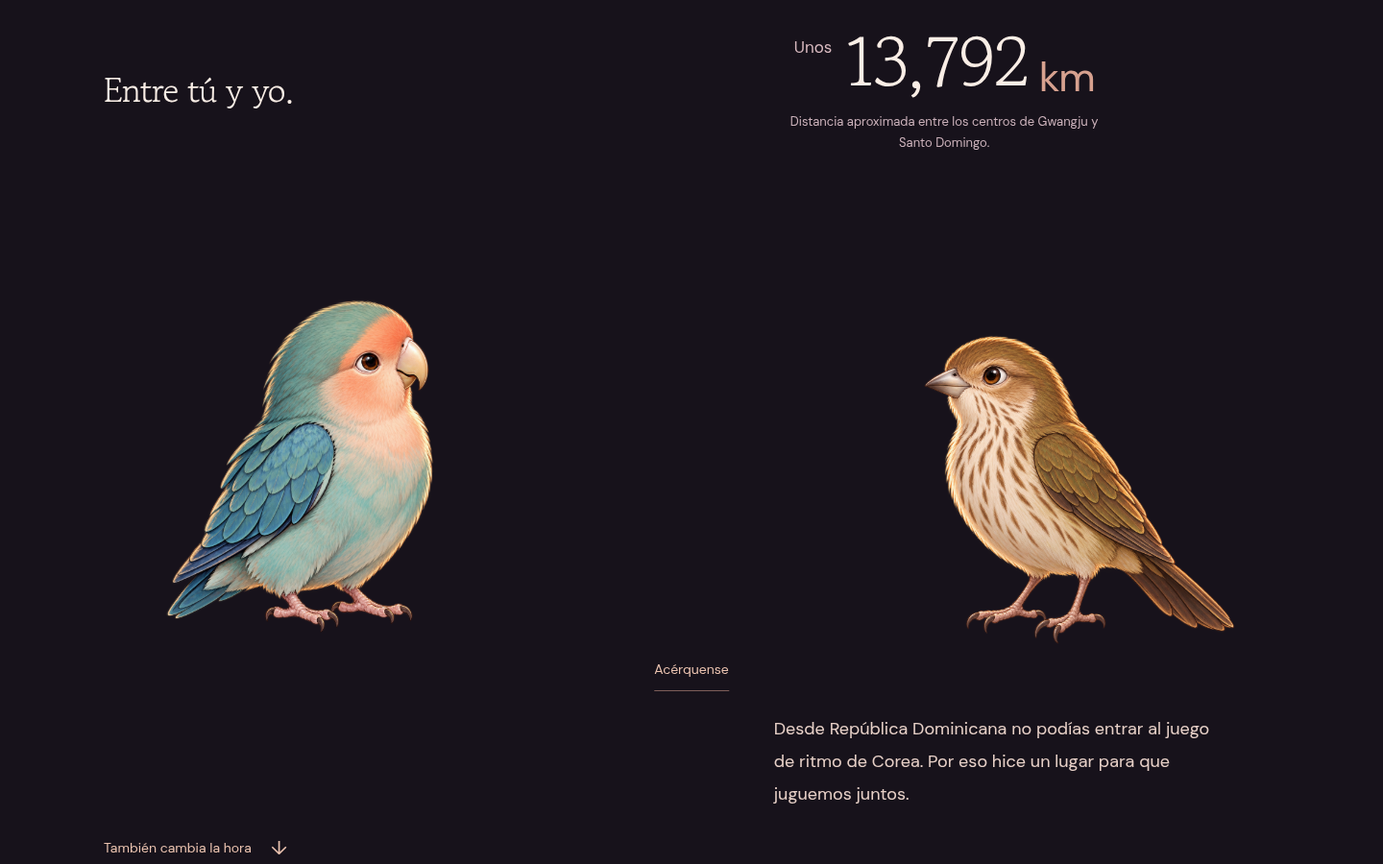
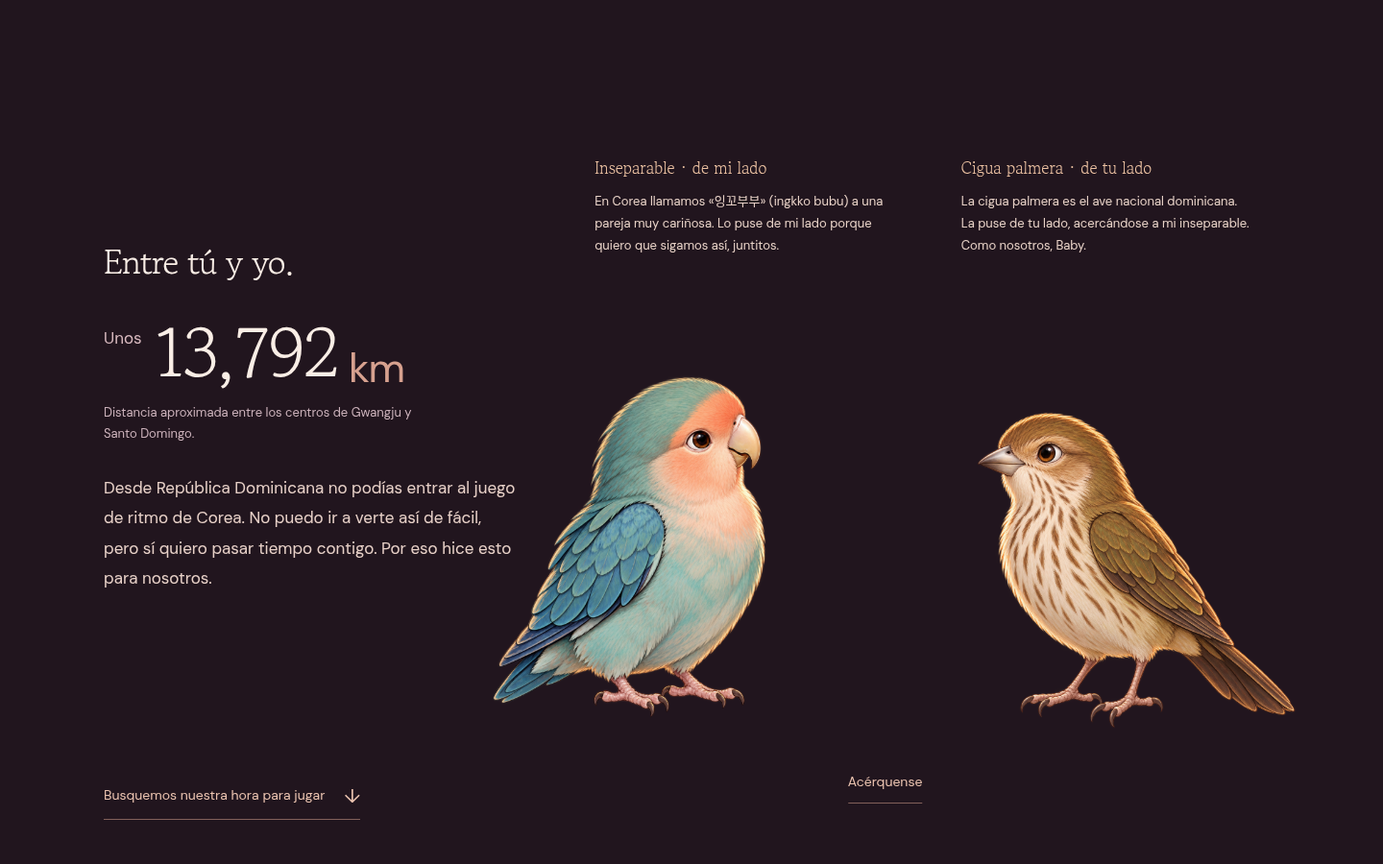
Trim unused code, split landing route, and enrich personal bilingual copy

diff --git a/src/copy/home.ts b/src/copy/home.ts
@@ -2,11 +2,11 @@ export const landingCopy = {
   ko: {
     heroKicker: 'Para ti, Mami ♡',
     heroTitle: ['Baby,', '이거 내가 만들었어!'],
-    heroBody: 'Baby, 너랑 통화할 때 같이 놀 수 있는 걸 만들고 싶었어.\n네가 좋아하는 도미노도 넣었고, 다른 게임들도 몇 개 준비해 봤어.\n어때, 나랑 한 판 할래? ㅋㅋㅋ',
+    heroBody: 'Baby, 떨어져 있어도 너랑 같이 놀고 싶어서 만들었어. 네가 좋아하는 도미노도 넣었지. 하나 골라봐. 오늘은 누가 이길까? ㅋㅋㅋ',
     primaryAction: '같이 놀자 ♡',
     secondaryAction: 'Papi의 편지',
     gamesTitle: 'Mami, 뭐부터 해볼래?',
-    gamesIntro: ['도미노는 네가 더 잘할 것 같은데, 다른 게임은 내가 이길 수도 있지 ㅋㅋㅋ', '하나 골라봐, baby.'],
+    gamesIntro: ['도미노는 네가 더 잘할 것 같은데, 다른 게임은 내가 이길 수도 있지 ㅋㅋㅋ', '이겨도 너무 놀리지는 마, Baby.'],
     navHome: '홈',
     navGames: '게임',
     navLetter: 'Papi의 편지',
@@ -21,7 +21,7 @@ export const landingCopy = {
     momentsTitle: 'Mami, 이렇게 하면 돼 ♡',
     moments: [
       { title: '같이 게임하기', body: '초대 링크로 같은 게임방에 들어와서 우리 둘이 같이 놀 수 있어.' },
-      { title: 'Baby, 내 그림 맞혀봐.', body: '다음엔 내가 맞힐게 ㅋㅋㅋ 캐치마인드에서는 한국어나 스페인어로 얘기하고, 번역과 원문을 함께 볼 수 있어.' },
+      { title: 'Baby, 이게 뭔지 맞혀봐.', body: '그림이 좀 이상해도 봐줘 ㅋㅋㅋ 캐치마인드 안에서는 한국어·스페인어 채팅의 원문과 번역을 같이 볼 수 있어.' },
       { title: '하고 싶은 게 더 있다면?', body: '다른 게임이나 추가했으면 하는 게 있으면 알려줘. Papi가 한번 만들어볼게 ㅋㅋㅋ' },
     ],
     translationLimitNote: '번역 한도를 넘거나 번역이 어려울 때는 원문으로 보여줄게.',
@@ -29,11 +29,11 @@ export const landingCopy = {
     letterAddress: 'For my Mami ♡',
     letterTitle: 'Baby, surprise!',
     letterBody: [
-      '이거 만들면서 네가 보고 어떤 반응을 할까 계속 생각했어.',
-      '네가 가족들이랑 자주 하는 도미노도 같이 해보고 싶었고, 다른 게임도 우리 둘이 하면 재밌을 것 같았어.',
-      '직접 옆에 있으면 더 좋겠지만, 떨어져 있는 동안에도 이렇게 같이 놀 수 있으면 좋겠어.',
-      '아직 부족한 게 있으면 같이 하면서 고쳐갈게.',
-      '사랑해, mami.',
+      'Baby, 이거 열어보고 어떤 표정을 지을까 생각하면서 만들었어. 그냥 게임만 할 수 있는 곳 말고, 들어오면 내가 너 생각하면서 만들었다는 게 느껴졌으면 좋겠어.',
+      '네가 가족들이랑 하는 도미노도 나랑 같이 해보고 싶었어. 네가 이기고 메롱하면 조금 억울하겠지만, 그래도 네가 신나하는 얼굴은 보고 싶거든. 대신 내가 이기면 박수 쳐줘야 해 ㅋㅋㅋ',
+      '나는 광주에 있고 너는 산토도밍고에 있잖아. 13시간이나 차이 나고 바로 옆에 갈 수도 없어서 많이 보고 싶어. 이렇게라도 너랑 얘기하고 같이 웃을 시간이 조금 더 생겼으면 좋겠어.',
+      '나중에는 화면 말고 바로 옆에서 같이 놀고 싶어. 게임하다가 네 얼굴도 보고, 손도 잡고. 그때까지는 여기서 한 판씩 하자, Baby. 하고 싶은 게 있으면 말해줘. 같이 해보고 싶어.',
+      '이 페이지 보고 네가 한 번 웃어주면 좋겠다. 그리고 내가 너 많이 좋아하고, 많이 사랑한다는 것도 알아줬으면 좋겠어. 오래오래 내 편 해줘, Mami. 나도 네 편일게. 사랑해 ♡',
     ],
     letterSignature: '— Your Papi, Yeonseok ♡',
     foldLetter: '편지 접기',
@@ -43,11 +43,11 @@ export const landingCopy = {
   es: {
     heroKicker: 'Para ti, Mami ♡',
     heroTitle: ['Baby,', '¡lo hice para ti!'],
-    heroBody: 'Baby, quería hacer algo para que pudiéramos jugar mientras hablamos por teléfono.\nIncluí el dominó, que tanto te gusta, y preparé algunos juegos más.\n¿Qué te parece? ¿Jugamos una partida? haha.',
+    heroBody: 'Baby, hice esto para jugar contigo aunque estemos lejos. Puse el dominó que te gusta y unos juegos más. Escoge uno. ¿Quién gana hoy? haha.',
     primaryAction: 'Vamos a jugar ♡',
     secondaryAction: 'La carta de Papi',
     gamesTitle: 'Mami, ¿por cuál empezamos?',
-    gamesIntro: ['En dominó seguro me ganas tú, pero quizá yo gane en los otros juegos, haha.', 'Escoge uno, baby.'],
+    gamesIntro: ['En dominó seguro me ganas tú, pero quizá yo gane en los otros juegos, haha.', 'Si me ganas, no te burles tanto de mí, Baby.'],
     navHome: 'Inicio',
     navGames: 'Juegos',
     navLetter: 'La carta de Papi',
@@ -62,7 +62,7 @@ export const landingCopy = {
     momentsTitle: 'Mami, mira cómo jugamos ♡',
     moments: [
       { title: 'Juguemos juntos', body: 'Entramos a la misma sala con el enlace de invitación y jugamos juntos.' },
-      { title: 'Baby, adivina qué dibujé.', body: 'Después me toca adivinar a mí, haha. En Catchmind podemos escribir en coreano o español y ver la traducción junto al mensaje original.' },
+      { title: 'Baby, adivina qué es esto.', body: 'No te rías mucho de mi dibujo, haha. Dentro de Catchmind, el chat muestra el mensaje original y su traducción entre coreano y español.' },
       { title: '¿Se te ocurre algo más?', body: 'Si quieres otro juego o te gustaría que agregara algo, dímelo. Papi tratará de hacerlo, haha.' },
     ],
     translationLimitNote: 'Si se llega al límite o la traducción no está disponible, verás el mensaje original.',
@@ -70,11 +70,11 @@ export const landingCopy = {
     letterAddress: 'For my Mami ♡',
     letterTitle: 'Baby, surprise!',
     letterBody: [
-      'Mientras hacía esto, no dejaba de pensar en qué cara pondrías al verlo.',
-      'Quería jugar contigo al dominó, que juegas tanto con tu familia, y pensé que los otros juegos también serían divertidos para nosotros dos.',
-      'Me encantaría estar a tu lado, pero ojalá podamos divertirnos así mientras estamos lejos.',
-      'Si algo todavía necesita mejorar, lo iremos arreglando mientras jugamos.',
-      'Te amo, mami.',
+      'Baby, hice esto pensando en la cara que pondrías al abrirlo. Quería que fuera más que un lugar para jugar. Quería que al entrar sintieras que lo hice pensando en ti.',
+      'También quería jugar contigo al dominó, como juegas con tu familia. Si me ganas y me sacas la lengua, seguro me voy a quejar un poquito, pero quiero verte así de contenta. Eso sí, si gano yo, me tienes que aplaudir, haha.',
+      'Yo estoy en Gwangju y tú en Santo Domingo. Tenemos trece horas de diferencia y no puedo ir a verte así de fácil. Te extraño mucho. Ojalá esto nos dé un ratito más para hablar, jugar y reírnos juntos.',
+      'Más adelante quiero jugar contigo teniéndote al lado, sin una pantalla de por medio. Poder mirarte y agarrarte la mano. Mientras tanto, juguemos aquí, Baby. Si hay algo que quieras hacer conmigo, dímelo. Yo también quiero hacerlo contigo.',
+      'Si esta página te saca una sonrisa, yo ya estoy feliz. Quiero que sepas lo mucho que te amo. Quédate de mi lado por mucho tiempo, Mami. Yo también quiero estar del tuyo. Te amo ♡',
     ],
     letterSignature: '— Your Papi, Yeonseok ♡',
     foldLetter: 'Doblar la carta',

diff --git a/post-hero-preview/src/CountryCompanions.tsx b/post-hero-preview/src/CountryCompanions.tsx
@@ -13,12 +13,12 @@ export function companionBodyMotion(phase:CompanionPhase,together:boolean,shift:
  const transition=reduced||phase==='instant'?{duration:0}:phase==='return'?{duration:.22,ease:[.23,1,.32,1] as const}:{duration:1.15,ease:[.77,0,.175,1] as const,times:[0,.25,.5,.8,1]};
  return{transform,transition};
 }
-function Companion({side,together,phase,shift,reduced,interactive,language,onGreet,onError}:{side:1|-1;together:boolean;phase:CompanionPhase;shift:number;reduced:boolean;interactive:boolean;language:'ko'|'es';onGreet:(pointer:boolean)=>void;onError:()=>void}){
+function Companion({side,together,phase,shift,reduced,interactive,language,descriptionId,onGreet,onError}:{side:1|-1;together:boolean;phase:CompanionPhase;shift:number;reduced:boolean;interactive:boolean;language:'ko'|'es';descriptionId:string;onGreet:(pointer:boolean)=>void;onError:()=>void}){
  const ko=language==='ko',id=useId(),x=useSpring(useMotionValue(0),spring),rotation=useSpring(useMotionValue(0),spring),animated=phase==='greet';
  const transform=useMotionTemplate`translateX(${x}px) rotate(${rotation}deg)`,body=companionBodyMotion(phase,together,shift,side,reduced);
  useEffect(()=>{if(reduced||!interactive){x.jump(0);rotation.jump(0);}},[reduced,interactive,x,rotation]);
  return <div className={`bird-scroll lovebird-${side===1?'left':'right'}`} inert={!interactive}>
-  <motion.button type="button" className="lovebird" aria-label={ko?(side===1?'광주의 잉꼬에게 인사하기':'산토도밍고의 시구아팔메라에게 인사하기'):(side===1?'Saludar al inseparable de Gwangju':'Saludar a la cigua palmera de Santo Domingo')} aria-pressed={together} aria-hidden={!interactive} tabIndex={interactive?0:-1} initial={false} animate={{transform:body.transform}} transition={body.transition} onClick={event=>onGreet(event.detail>0)} onPointerMove={event=>{if(reduced||event.pointerType!=='mouse'||!matchMedia('(hover: hover) and (pointer: fine)').matches)return;const bounds=event.currentTarget.getBoundingClientRect(),ratio=(event.clientX-bounds.left)/bounds.width-.5;x.set(ratio*8);rotation.set(ratio*4);}} onPointerLeave={()=>{x.set(0);rotation.set(0);}}>
+  <motion.button type="button" className="lovebird" aria-describedby={interactive?descriptionId:undefined} aria-label={ko?(side===1?'광주의 잉꼬에게 인사하기':'산토도밍고의 시구아팔메라에게 인사하기'):(side===1?'Saludar al inseparable de Gwangju':'Saludar a la cigua palmera de Santo Domingo')} aria-pressed={together} aria-hidden={!interactive} tabIndex={interactive?0:-1} initial={false} animate={{transform:body.transform}} transition={body.transition} onClick={event=>onGreet(event.detail>0)} onPointerMove={event=>{if(reduced||event.pointerType!=='mouse'||!matchMedia('(hover: hover) and (pointer: fine)').matches)return;const bounds=event.currentTarget.getBoundingClientRect(),ratio=(event.clientX-bounds.left)/bounds.width-.5;x.set(ratio*8);rotation.set(ratio*4);}} onPointerLeave={()=>{x.set(0);rotation.set(0);}}>
    <motion.svg className="lovebird-art" style={{transform}} viewBox="0 0 1254 1254" aria-hidden="true">
     <defs><clipPath id={`${id}-wing`}><path d={side===1?'M584 501C527 468 445 475 409 519C348 597 324 695 257 779C210 838 160 923 142 988C278 955 402 856 489 769C577 685 635 595 636 546C636 523 614 507 584 501Z':'M567 435C640 422 710 458 748 510C801 579 847 674 924 755C969 806 1016 868 1042 938C919 906 824 846 735 780C650 714 575 626 552 552C535 496 537 455 567 435Z'}/></clipPath></defs>
     <image href={side===1?'/images/story-companions/lovebird.png':'/images/story-companions/palmchat.png'} width="1254" height="1254" onError={onError}/>
@@ -31,7 +31,7 @@ function Companion({side,together,phase,shift,reduced,interactive,language,onGre
 }
 
 export function CountryCompanions({language}:{language:'ko'|'es'}){
- const ko=language==='ko',root=useRef<HTMLDivElement>(null),reduced=useReducedMotion();
+ const ko=language==='ko',root=useRef<HTMLDivElement>(null),reduced=useReducedMotion(),lovebirdNote=useId(),palmchatNote=useId();
  const [together,setTogether]=useState(false),[visible,setVisible]=useState(false),[phase,setPhase]=useState<CompanionPhase>('instant'),[shift,setShift]=useState(0),[failed,setFailed]=useState(false),[trace,setTrace]=useState({x:0,y:0}),[moment,setMoment]=useState<'distance'|'time'|'shared'>('distance');
  useEffect(()=>{
   const element=root.current;if(!element)return;
@@ -75,11 +75,15 @@ export function CountryCompanions({language}:{language:'ko'|'es'}){
  };
  return <div ref={root} className="country-companions" data-together={together} data-visible={visible} data-interaction-phase={phase} data-story-moment={moment} role="group" aria-labelledby="story-distance-title">
   <div className="companion-stage">
-  <Companion side={1} together={together} phase={phase} shift={shift} reduced={Boolean(reduced)||!visible} interactive={moment==='distance'} language={language} onGreet={greet} onError={()=>setFailed(true)}/>
+  <Companion side={1} together={together} phase={phase} shift={shift} reduced={Boolean(reduced)||!visible} interactive={moment==='distance'} language={language} descriptionId={lovebirdNote} onGreet={greet} onError={()=>setFailed(true)}/>
   <svg className="companion-heart" aria-hidden="true"><g transform={`translate(${trace.x} ${trace.y-118})`}>
    {[-1,1].map(side=><motion.path key={side} d={`M0 12C${side*24} -25 ${side*80} -22 ${side*80} 18C${side*80} 62 ${side*30} 92 0 118`} initial={false} animate={{pathLength:together?1:0,opacity:together?.5:0}} transition={{duration:phase==='greet'&&!reduced?.75:phase==='return'&&!reduced?.22:0,delay:together&&phase==='greet'&&!reduced?.4:0,ease:[.23,1,.32,1]}}/>)}</g></svg>
-  <Companion side={-1} together={together} phase={phase} shift={shift} reduced={Boolean(reduced)||!visible} interactive={moment==='distance'} language={language} onGreet={greet} onError={()=>setFailed(true)}/>
+  <Companion side={-1} together={together} phase={phase} shift={shift} reduced={Boolean(reduced)||!visible} interactive={moment==='distance'} language={language} descriptionId={palmchatNote} onGreet={greet} onError={()=>setFailed(true)}/>
   <button type="button" className="lovebird-greeting text-button" hidden={moment!=='distance'} aria-pressed={together} onClick={event=>greet(event.detail>0)}>{together?(ko?'조금 떨어져 볼까':'Un poquito de espacio'):(ko?'가까이 와':'Acérquense')}</button>
+  </div>
+  <div className="companion-meanings" hidden={moment!=='distance'}>
+   <div id={lovebirdNote}><h3>{ko?'잉꼬 · 내 쪽에서':'Inseparable · de mi lado'}</h3><p>{ko?'한국에서는 다정한 부부를 ‘잉꼬부부’라고 불러. 나도 너랑 오래 그렇게 지내고 싶어서 내 쪽에 뒀어.':'En Corea llamamos «잉꼬부부» (ingkko bubu) a una pareja muy cariñosa. Lo puse de mi lado porque quiero que sigamos así, juntitos.'}</p></div>
+   <div id={palmchatNote}><h3>{ko?'시구아팔메라 · 네 쪽에서':'Cigua palmera · de tu lado'}</h3><p>{ko?'시구아팔메라는 도미니카의 국조야. 네 나라의 새와 내 쪽의 잉꼬가 서로 다가오게 했어. 우리처럼, Baby.':'La cigua palmera es el ave nacional dominicana. La puse de tu lado, acercándose a mi inseparable. Como nosotros, Baby.'}</p></div>
   </div>
   {failed&&<p className="lovebird-error" role="status">{ko?'새 그림을 불러오지 못했어. 페이지를 다시 열어줘.':'No se cargaron las aves. Vuelve a abrir la página.'}</p>}
  </div>;

diff --git a/src/landing/gallery/studioObjects.ts b/src/landing/gallery/studioObjects.ts
@@ -32,16 +32,8 @@ function mesh(g:T.Group,geometry:T.BufferGeometry,material:T.Material,x=0,y=0,z=
 function box(g:T.Group,m:T.Material,w:number,h:number,d:number,x=0,y=0,z=0,r=.075){return mesh(g,new RoundedBoxGeometry(w,h,d,6,Math.min(r,d/3)),m,x,y,z);}
 function line(g:T.Group,m:T.Material,points:number[][],radius=.025){return mesh(g,new T.TubeGeometry(new T.CatmullRomCurve3(points.map(p=>new T.Vector3(...p as [number,number,number]))),48,radius,12,false),m);}
 function disc(g:T.Group,m:T.Material,r:number,x:number,y:number,z:number){const o=mesh(g,new T.CylinderGeometry(r,r,.018,32),m,x,y,z);o.rotation.x=Math.PI/2;return o;}
-function print(g:T.Group,text:string,color:string,x=0,y=0,z=.16,w=.65,h=.9){const c=document.createElement('canvas');c.width=256;c.height=320;const ctx=c.getContext('2d')!;ctx.fillStyle=color;ctx.font='700 220px GiftSans, sans-serif';ctx.textAlign='center';ctx.textBaseline='middle';ctx.fillText(text,128,170);const map=new T.CanvasTexture(c);map.colorSpace=T.SRGBColorSpace;mesh(g,new T.PlaneGeometry(w,h),new T.MeshStandardMaterial({map,transparent:true,roughness:.75,depthWrite:false}),x,y,z);}
 function pips(g:T.Group,m:T.Material,n:number,y:number,z=.22,spread=.2){const p=n===1?[[0,0]]:n===2?[[-1,-1],[1,1]]:n===3?[[-1,-1],[0,0],[1,1]]:n===4?[[-1,-1],[1,-1],[-1,1],[1,1]]:[[-1,-1],[1,-1],[0,0],[-1,1],[1,1]];p.forEach(([x,dy])=>disc(g,m,.062,x*spread,y+dy*spread,z));}
-function cutGem(g:T.Group,source:T.MeshPhysicalMaterial,size:number,x=0,y=0,z=0){
- const rings=[[.35,.53],[.7,.38],[1,.08],[.99,-.06],[.47,-.5],[.015,-.77]],points:number[]=[];
- const v=(r:number,i:number)=>{const [radius,depth]=rings[r],angle=i/8*Math.PI*2+(r===1||r===4?Math.PI/8:0);return[Math.cos(angle)*radius,Math.sin(angle)*radius,depth];};
- for(let i=0;i<8;i++){points.push(0,0,.53,...v(0,i),...v(0,i+1));for(let r=0;r<5;r++){const a=v(r,i),b=v(r,i+1),c=v(r+1,i),d=v(r+1,i+1);points.push(...a,...c,...b,...b,...c,...d);}}
- const geometry=new T.BufferGeometry();geometry.setAttribute('position',new T.Float32BufferAttribute(points,3));geometry.computeVertexNormals();
- const m=source.clone();m.metalness=.06;m.roughness=.22;m.envMapIntensity=.7;m.ior=1.72;m.clearcoat=.9;
- const o=mesh(g,geometry,m,x,y,z);o.scale.setScalar(size);o.rotation.set(.24,-.38,.16);return o;
-}
+
 function sculptCamel(g:T.Group,m:Materials){
  // One continuous carved silhouette replaces the disconnected torso, hump and tube neck.
  const s=new T.Shape();s.moveTo(1.2,.91);s.bezierCurveTo(1.32,.96,1.34,1.07,1.2,1.11);s.lineTo(.94,1.13);s.lineTo(.83,1.28);s.quadraticCurveTo(.73,1.3,.77,1.09);s.bezierCurveTo(.61,1.07,.57,.83,.51,.48);s.bezierCurveTo(.45,.22,.28,.24,.18,.49);s.bezierCurveTo(.03,.97,-.35,.92,-.5,.52);s.bezierCurveTo(-.62,.24,-.85,.43,-.98,.2);s.quadraticCurveTo(-1.12,.12,-1.13,-.14);s.quadraticCurveTo(-1.2,-.32,-1.14,-.47);s.lineTo(-1.08,-.48);s.quadraticCurveTo(-1.07,-.29,-1.01,-.22);s.lineTo(-.81,-.56);s.lineTo(-.93,-1.01);s.quadraticCurveTo(-.97,-1.1,-.82,-1.1);s.lineTo(-.6,-1.1);s.quadraticCurveTo(-.56,-1.03,-.68,-1);s.lineTo(-.58,-.56);s.lineTo(-.42,-.22);s.bezierCurveTo(-.2,-.3,.2,-.28,.45,-.2);s.lineTo(.55,-.98);s.quadraticCurveTo(.5,-1.09,.66,-1.1);s.lineTo(.87,-1.1);s.quadraticCurveTo(.93,-1.04,.79,-.99);s.lineTo(.75,-.3);s.bezierCurveTo(.8,.04,.71,.23,.72,.41);s.bezierCurveTo(.76,.7,.89,.91,1.02,.89);s.lineTo(1.2,.91);

diff --git a/post-hero-preview/src/StoryChapters.tsx b/post-hero-preview/src/StoryChapters.tsx
@@ -15,11 +15,11 @@ export function StoryChapters({language}:{language:'ko'|'es'}){
   <CountryCompanions language={language}/>
   <section id="distance" className="story-chapter story-distance" data-pose="0" aria-labelledby="story-distance-title">
    <div className="story-distance-copy"><h2 id="story-distance-title">{ko?'우리 사이, 이만큼.':'Entre tú y yo.'}</h2><div className="story-distance-facts"><p className="story-distance-number"><span>{ko?'약':'Unos'}</span>{distance}<small>km</small></p><p className="story-reference">{ko?'광주에서 산토도밍고까지, 도시 중심을 잇는 직선거리야.':'Distancia aproximada entre los centros de Gwangju y Santo Domingo.'}</p></div>
-   <p className="story-distance-reason">{ko?'도미니카에서는 한국 리듬게임에 접속이 안 됐잖아. 그래서 우리 둘이 같이 놀 곳을 만들었어.':'Desde República Dominicana no podías entrar al juego de ritmo de Corea. Por eso hice un lugar para que juguemos juntos.'}</p></div>
+   <p className="story-distance-reason">{ko?'한국 리듬게임에 접속이 안 됐잖아. 바로 옆에 갈 수는 없어도 너랑 같이 놀고 싶어서 우리 둘이 놀 곳을 만들었어.':'Desde República Dominicana no podías entrar al juego de ritmo de Corea. No puedo ir a verte así de fácil, pero sí quiero pasar tiempo contigo. Por eso hice esto para nosotros.'}</p></div>
    <a className="text-button story-next" href="#time-difference">{ko?'같이 놀 시간도 골라볼까?':'Busquemos nuestra hora para jugar'}<span aria-hidden="true">↓</span></a>
   </section>
   <section id="time-difference" className="story-chapter story-time" data-pose=".16" aria-labelledby="story-time-title">
-   <div className="story-time-intro"><h2 id="story-time-title">{ko?<>그래서,<br/>같이 놀 시간.</>:<>Busquemos<br/>nuestra hora.</>}</h2><p>{ko?'한국이 13시간 빨라. 말도, 시간도 다르지만 같이 놀 시간은 고를 수 있잖아.':'Corea va 13 horas por delante. Hablamos distinto, pero podemos buscar nuestra hora para jugar.'}</p></div>
+   <div className="story-time-intro"><h2 id="story-time-title">{ko?<>그래서,<br/>같이 놀 시간.</>:<>Busquemos<br/>nuestra hora.</>}</h2><p>{ko?'한국이 13시간 빨라. 내 저녁이 네 아침이네. 둘 다 졸리지 않을 시간으로 한번 골라보자, Baby.':'Corea va trece horas por delante. Mi noche es tu mañana. Busquemos una hora en la que ninguno se esté durmiendo, Baby.'}</p></div>
    <StoryTimeInteraction language={language} now={now} koreanHour={koreanHour} onHourChange={value=>{setKoreanHour(value);setChoseTime(true);}}/>
    <a className="text-button story-next" href="#shared-place">{ko?'이제 같이 놀자, Baby':'Ahora sí, a jugar, baby'}<span aria-hidden="true">↓</span></a>
   </section>

diff --git a/post-hero-preview/src/PostHeroPreview.tsx b/post-hero-preview/src/PostHeroPreview.tsx
@@ -17,8 +17,8 @@ const StandalonePostHeroScene=lazy(()=>import('./Scene').then(module=>({default:
 
 type Language = 'ko' | 'es';
 const story = {
- ko: { title:<>멀리 있어도,<br/>우리 둘이 같이.</>, body:'Baby, 너랑 같이 게임하려고 만들었어.', next:'조금 내려봐', distance:'한국과 도미니카.', distanceBody:'Baby, 도미니카에서는 한국 리듬게임에 접속이 안 됐잖아.', letter:'Baby, 이번엔 이거 열어봐.', letterBody:'이건 네가 읽어줬으면 해서.', open:'편지 열기', continueOpen:'계속 열기', cancelClose:'접기 취소', close:'편지 접기', ending:<>자, 이제 같이 놀자,<br/><em>Baby.</em></>, play:'게임 고르기', ideas:'Mami의 아이디어', reading:'편지 읽기', back:'처음으로', sealed:'봉투가 닫혀 있어요.', },
- es: { title:<>Aunque estemos lejos,<br/>juguemos juntos.</>, body:'Baby, hice esto para que juguemos juntos.', next:'Baja un poquito', distance:'Corea y República Dominicana.', distanceBody:'Baby, desde República Dominicana no podías entrar al juego de ritmo de Corea.', letter:'Baby, ahora abre esto.', letterBody:'Esto sí quería que lo leyeras.', open:'Abrir la carta', continueOpen:'Seguir abriendo', cancelClose:'Cancelar el cierre', close:'Doblar la carta', ending:<>Ahora sí, vamos a jugar,<br/><em>baby.</em></>, play:'Elegir un juego', ideas:'Ideas de Mami', reading:'Leer la carta', back:'Volver arriba', sealed:'El sobre está cerrado.', }
+ ko: { title:<>멀리 있어도,<br/>우리 둘이 같이.</>, body:'Baby, 너랑 같이 게임하려고 만들었어.', next:'조금 내려봐', letter:'Baby, 이번엔 이거 열어봐.', letterBody:'게임은 잠깐만. 이건 네가 꼭 읽어줬으면 좋겠어.', open:'편지 열기', continueOpen:'계속 열기', cancelClose:'접기 취소', close:'편지 접기', play:'게임 고르기', reading:'편지 읽기', sealed:'봉투가 닫혀 있어요.', },
+ es: { title:<>Aunque estemos lejos,<br/>juguemos juntos.</>, body:'Baby, hice esto para que juguemos juntos.', next:'Baja un poquito', letter:'Baby, ahora abre esto.', letterBody:'Dejemos el juego un momentito. Esto sí quiero que lo leas.', open:'Abrir la carta', continueOpen:'Seguir abriendo', cancelClose:'Cancelar el cierre', close:'Doblar la carta', play:'Elegir un juego', reading:'Leer la carta', sealed:'El sobre está cerrado.', }
 };
 function storedLanguage():Language { try { return localStorage.getItem('dos-language')==='es'?'es':'ko'; } catch { return 'ko'; } }
 

diff --git a/src/app/App.tsx b/src/app/App.tsx
@@ -1,10 +1,10 @@
 import { Suspense, lazy, useEffect, useState } from 'react';
-import { Landing } from '../landing/Landing';
 import { Link } from './Router';
 import { canEnterPlayRoute, DESKTOP_GAME_QUERY } from '../core/display';
 import { DesktopGameNotice } from './DesktopGameNotice';
 
 function currentPath() { return window.location.pathname; }
+const Landing = lazy(() => import('../landing/Landing').then(module => ({ default: module.Landing })));
 const FeedbackRoute = lazy(() => import('./FeedbackRoute').then(module => ({ default: module.FeedbackRoute })));
 const PlayApp = lazy(() => import('./PlayApp').then(module => ({ default: module.PlayApp })));
 
@@ -22,9 +22,15 @@ export function App() {
     window.addEventListener('popstate', onPop);
     return () => window.removeEventListener('popstate', onPop);
   }, []);
-  if (path === '/') return <Landing />;
-  if (path !== '/feedback' && !canEnterPlayRoute(canPlay, path)) return <DesktopGameNotice language={localStorage.getItem('dos-language') === 'es' ? 'es' : 'ko'}/>;
-  return <Suspense fallback={<main className="loading-screen"><strong>{localStorage.getItem('dos-language') === 'es' ? 'Nosotros' : '우리 둘'}</strong><span className="loader"/><p>{localStorage.getItem('dos-language') === 'es' ? 'Cargando juegos…' : '게임방을 불러오는 중…'}</p></main>}>{path === '/feedback' ? <FeedbackRoute/> : <PlayApp path={path} desktopDisplay={canPlay} />}</Suspense>;
+  if (path !== '/' && path !== '/feedback' && !canEnterPlayRoute(canPlay, path)) return <DesktopGameNotice language={localStorage.getItem('dos-language') === 'es' ? 'es' : 'ko'}/>;
+  const es = localStorage.getItem('dos-language') === 'es';
+  const loadingMessage = path === '/feedback'
+    ? (es ? 'Abriendo las sugerencias…' : '건의사항을 여는 중…')
+    : path === '/' ? (es ? 'Ya casi, Baby…' : '잠깐만, Baby…')
+    : (es ? 'Cargando juegos…' : '게임방을 불러오는 중…');
+  return <Suspense fallback={<main className="loading-screen"><strong>{es ? 'Nosotros' : '우리 둘'}</strong><span className="loader"/><p>{loadingMessage}</p></main>}>
+    {path === '/' ? <Landing/> : path === '/feedback' ? <FeedbackRoute/> : <PlayApp path={path} desktopDisplay={canPlay} />}
+  </Suspense>;
 }
 
 export function BrandHeader({ compact = false }: { compact?: boolean }) {

diff --git a/supabase/functions/_shared/engines.js b/supabase/functions/_shared/engines.js
@@ -4296,7 +4296,7 @@ function hardRolloutScore(move, hand, actor, mode, board, ends, context, worlds)
   if (!worlds.length) return 0;
   return worlds.reduce((total, world) => total + sampledRollout(move, hand, actor, mode, board, ends, context, world), 0) / worlds.length;
 }
-function utility(move, hand, board, ends, context, difficulty, unseen, voids) {
+function utility(move, hand, board, _ends, context, difficulty, unseen, voids) {
   const rest = hand.filter((_, index) => index !== move.index), pips = move.tile.a + move.tile.b;
   if (!rest.length) return 1e6 + pips + (move.tile.a === move.tile.b ? move.tile.a : 0);
   const support = handSupport(rest, move.ends), leftSupport = rest.filter((tile) => matches(tile, move.ends.left)).length, rightSupport = rest.filter((tile) => matches(tile, move.ends.right)).length;
@@ -4321,7 +4321,7 @@ function chooseDominoBotAction(hand, board, ends, difficulty = "normal", publicC
   const moves = legalMoves(hand, ends);
   if (!moves.length) return { type: "pass" };
   if (moves.length === 1) return { type: "play", payload: { index: moves[0].index, side: moves[0].side } };
-  const handOut = moves.find((move) => hand.length === 1);
+  const handOut = moves.find(() => hand.length === 1);
   if (handOut) return { type: "play", payload: { index: handOut.index, side: handOut.side } };
   const unseen = difficulty === "hard" ? unseenTiles(hand, board) : [], voids = difficulty === "hard" ? passVoids(publicContext, board) : /* @__PURE__ */ new Map();
   const worlds = difficulty === "hard" && publicContext.actor ? hardRolloutWorlds(hand, publicContext.actor, publicContext.mode ?? "1v1", board, publicContext, unseen, voids) : [];
@@ -6299,7 +6299,7 @@ function bonus(s, p, amount, ko, es, source = "bank") {
   s.money[p] += amount;
   emit(s, "bonus", p, ko, es, `${amount}\uC744 \uBC1B\uC558\uC2B5\uB2C8\uB2E4.`, `Recibiste ${amount}.`, { amount, toPlayer: p, fromAccount: source, toAccount: p, moneyDelta: { [p]: amount } });
 }
-function moveForward(s, p, to, board) {
+function moveForward(s, p, to, _board) {
   const from = s.positions[p];
   if (to < from) bonus(s, p, 200, "\uCD9C\uBC1C \uBCF4\uB108\uC2A4", "Bono de Salida");
   s.positions[p] = to;

diff --git a/post-hero-preview/src/PartnerPact.tsx b/post-hero-preview/src/PartnerPact.tsx
@@ -43,9 +43,9 @@ export function PartnerPact({language,onResponseChange}:{language:'ko'|'es';onRe
    <header className="pp-heading"><h3 ref={title} id={titleId} tabIndex={-1}>{ko?'우리의 약속':'Nuestro pacto'}</h3><button type="button" className="pp-close" onClick={close}>{ko?'접기':'Cerrar'}<svg viewBox="0 0 24 24" aria-hidden="true"><path d="m7 7 10 10M17 7 7 17"/></svg></button></header>
    <blockquote>{ko?'Baby, 내 평생의 동반자가 되어줄래?':'Baby, ¿quieres ser mi compañera de vida?'}</blockquote>
    <div className="pp-promises">
-    <p>{ko?'13시간 차이가 나도, 너를 위한 시간을 만들게.':'Aunque nos separen trece horas, buscaré tiempo para ti.'}</p>
-    <p>{ko?'서로의 마음을 듣고 존중하면서 함께 돌볼게.':'Voy a escucharte, respetarte y cuidar de nosotros.'}</p>
-    <p>{ko?'그리고 계속 같이 놀자. 네가 이겨도, ㅋㅋㅋ.':'Y seguir jugando contigo… aunque me ganes, haha.'}</p>
+    <p>{ko?'13시간 차이가 나도, 너랑 얘기할 시간은 챙기고 싶어.':'Aunque nos separen trece horas, quiero hacer tiempo para hablar contigo.'}</p>
+    <p>{ko?'보고 싶으면 보고 싶다고, 서운하면 서운하다고 말하자. 나도 잘 들을게.':'Si me extrañas o algo te molesta, dímelo. Yo también voy a hablarte y escucharte.'}</p>
+    <p>{ko?'그리고 계속 같이 놀자. 내가 져도 또 할게 ㅋㅋㅋ':'Y sigamos jugando. Aunque pierda, voy a pedir otra partida, haha.'}</p>
    </div>
    <div className="pp-response">
     <button ref={answerButton} type="button" className="pp-answer" aria-pressed={accepted} onClick={answer}>{accepted?(ko?'내 대답: 응, 너랑 함께 ♡':'Mi respuesta: sí, contigo ♡'):(ko?'응, 너랑 함께 ♡':'Sí, contigo ♡')}</button>

diff --git a/src/games/domino.ts b/src/games/domino.ts
@@ -210,7 +210,7 @@ function hardRolloutScore(move: BotMove, hand: Domino[], actor: Seat, mode: Mode
   if(!worlds.length) return 0;
   return worlds.reduce((total,world)=>total+sampledRollout(move,hand,actor,mode,board,ends,context,world),0)/worlds.length;
 }
-function utility(move: BotMove, hand: Domino[], board: Placed[], ends: DominoState['ends'], context: PublicBotContext, difficulty: Difficulty, unseen: Domino[], voids: Map<Seat,Set<number>>) {
+function utility(move: BotMove, hand: Domino[], board: Placed[], _ends: DominoState['ends'], context: PublicBotContext, difficulty: Difficulty, unseen: Domino[], voids: Map<Seat,Set<number>>) {
   const rest=hand.filter((_,index)=>index!==move.index),pips=move.tile.a+move.tile.b;
   if(!rest.length) return 1_000_000+pips+(move.tile.a===move.tile.b?move.tile.a:0);
   const support=handSupport(rest,move.ends),leftSupport=rest.filter(tile=>matches(tile,move.ends.left)).length,rightSupport=rest.filter(tile=>matches(tile,move.ends.right)).length;
@@ -237,7 +237,7 @@ export function chooseDominoBotAction(hand: Domino[], board: Placed[], ends: Dom
   const moves=legalMoves(hand,ends);
   if(!moves.length) return {type:'pass'};
   if(moves.length===1) return {type:'play',payload:{index:moves[0].index,side:moves[0].side}};
-  const handOut=moves.find(move=>hand.length===1);
+  const handOut=moves.find(()=>hand.length===1);
   if(handOut) return {type:'play',payload:{index:handOut.index,side:handOut.side}};
   const unseen=difficulty==='hard'?unseenTiles(hand,board):[],voids=difficulty==='hard'?passVoids(publicContext,board):new Map<Seat,Set<number>>();
   const worlds=difficulty==='hard'&&publicContext.actor ? hardRolloutWorlds(hand,publicContext.actor,publicContext.mode??'1v1',board,publicContext,unseen,voids) : [];

diff --git a/src/landing/cinematic/folded/heroRoomJourney.ts b/src/landing/cinematic/folded/heroRoomJourney.ts
@@ -112,7 +112,7 @@ void main(){vec4 q=cameraWorld*inverseProjection*vec4(screenUv*2.-1.,1.,1.);vec3
   // The base cell is a conservative domain for B contents, not the deformed roof's exact volume.
   // The downward intrados can cover upper B background; its actual triangles own that occlusion
   // by ordinary depth. Protected people/objects are checked against those triangles, not this half-space.
-  function cameraAt(p:number){let i=cameraKeys.findIndex((v,i)=>i<cameraKeys.length-1&&p<=cameraKeys[i+1].p);if(i<0)i=cameraKeys.length-2;const a=cameraKeys[i],b=cameraKeys[i+1],t=smooth(a.p,b.p,p);camera.position.copy(a.position).lerp(b.position,t);camera.rotation.set(0,T.MathUtils.degToRad(T.MathUtils.lerp(a.yaw,b.yaw,t)),0);camera.fov=T.MathUtils.lerp(a.fov,b.fov,t);camera.updateProjectionMatrix();camera.updateMatrixWorld();}
+  function cameraAt(p:number){let i=cameraKeys.findIndex((_v,i)=>i<cameraKeys.length-1&&p<=cameraKeys[i+1].p);if(i<0)i=cameraKeys.length-2;const a=cameraKeys[i],b=cameraKeys[i+1],t=smooth(a.p,b.p,p);camera.position.copy(a.position).lerp(b.position,t);camera.rotation.set(0,T.MathUtils.degToRad(T.MathUtils.lerp(a.yaw,b.yaw,t)),0);camera.fov=T.MathUtils.lerp(a.fov,b.fov,t);camera.updateProjectionMatrix();camera.updateMatrixWorld();}
   stage.matrixAutoUpdate=false;stage.matrix.copy(normalization);stage.updateMatrixWorld(true);
   const geometries=new Set<T.BufferGeometry>(),materials=new Set<T.Material>([leftMat,rightMat]);
   stage.traverse(object=>{if((object as T.Mesh).isMesh){const mesh=object as T.Mesh;geometries.add(mesh.geometry);for(const value of Array.isArray(mesh.material)?mesh.material:[mesh.material])materials.add(value);}});

diff --git a/src/app/MarbleBoard.tsx b/src/app/MarbleBoard.tsx
@@ -68,7 +68,6 @@ function phaseName(phase: string, language: Language) {
   };
   return phases[phase]?.[language] ?? copy(language, '게임 현황', 'Estado de la partida');
 }
-function moneyLabel(value: unknown, language: Language) { return moneyText(num(value), language); }
 
 function Die({ value, language }: { value: number; language: Language }) {
   const dots: Record<number, string[]> = { 1: ['m'], 2: ['tl', 'br'], 3: ['tl', 'm', 'br'], 4: ['tl', 'tr', 'bl', 'br'], 5: ['tl', 'tr', 'm', 'bl', 'br'], 6: ['tl', 'ml', 'bl', 'tr', 'mr', 'br'] };
@@ -269,8 +268,6 @@ export default function MarbleBoard({ view: rawView, language, playerId, runActi
     debt: { ko: '상대가 결제 방법을 선택하고 있어요', es: 'Tu pareja está resolviendo un pago' },
   };
   const phaseLabel = !active && !view.result ? opponentPhase[phase]?.[language] ?? phaseName(phase, language) : phaseName(phase, language);
-  const monopolyLabels = list(record(board.monopolies)[playerId]).map(group => groups[String(group)]?.[language] ?? String(group));
-  const tileKind = String(currentTile.kind ?? '');
   const ownerName = currentTile.owner === 'p1' || currentTile.owner === 'p2' ? seatName(currentTile.owner, playerId, language) : null;
   const statusCopy = view.result ? copy(language, '경기가 끝났어요', 'Partida terminada') : active ? copy(language, '내 차례', 'Tu turno') : copy(language, '상대 차례', 'Turno de tu pareja');
   const scoreLabel = modern ? num(board.economicVersion) >= 1 ? copy(language, '순자산', 'Patrimonio neto') : copy(language, '총 자산', 'Activos totales') : copy(language, '현금', 'Efectivo');

diff --git a/src/games/marble.ts b/src/games/marble.ts
@@ -162,7 +162,6 @@ function emit(s: MarbleState, type: MarbleActionEvent['type'], actor: PlayerId, 
   s.actionSequence = sequence;
   s.actionLog = [...(s.actionLog ?? []), { sequence, type, actor, title: { ko, es }, text: { ko: textKo, es: textEs }, ...extra }].slice(-40);
 }
-const numeric = (value: unknown) => typeof value === 'number' && Number.isFinite(value);
 const propIndices = (board: MarbleTile[]) => board.flatMap((tile, index) => tile.kind === 'property' ? [index] : []);
 function view(s: MarbleState, p: PlayerId) {
   const board = boardFor(s);
@@ -339,7 +338,7 @@ function bonus(s: MarbleState, p: PlayerId, amount: number, ko: string, es: stri
   s.money[p] += amount;
   emit(s, 'bonus', p, ko, es, `${amount}을 받았습니다.`, `Recibiste ${amount}.`, { amount, toPlayer: p, fromAccount: source, toAccount: p, moneyDelta: { [p]: amount } });
 }
-function moveForward(s: MarbleState, p: PlayerId, to: number, board: MarbleTile[]) {
+function moveForward(s: MarbleState, p: PlayerId, to: number, _board: MarbleTile[]) {
   const from = s.positions[p];
   if (to < from) bonus(s, p, 200, '출발 보너스', 'Bono de Salida');
   s.positions[p] = to;
